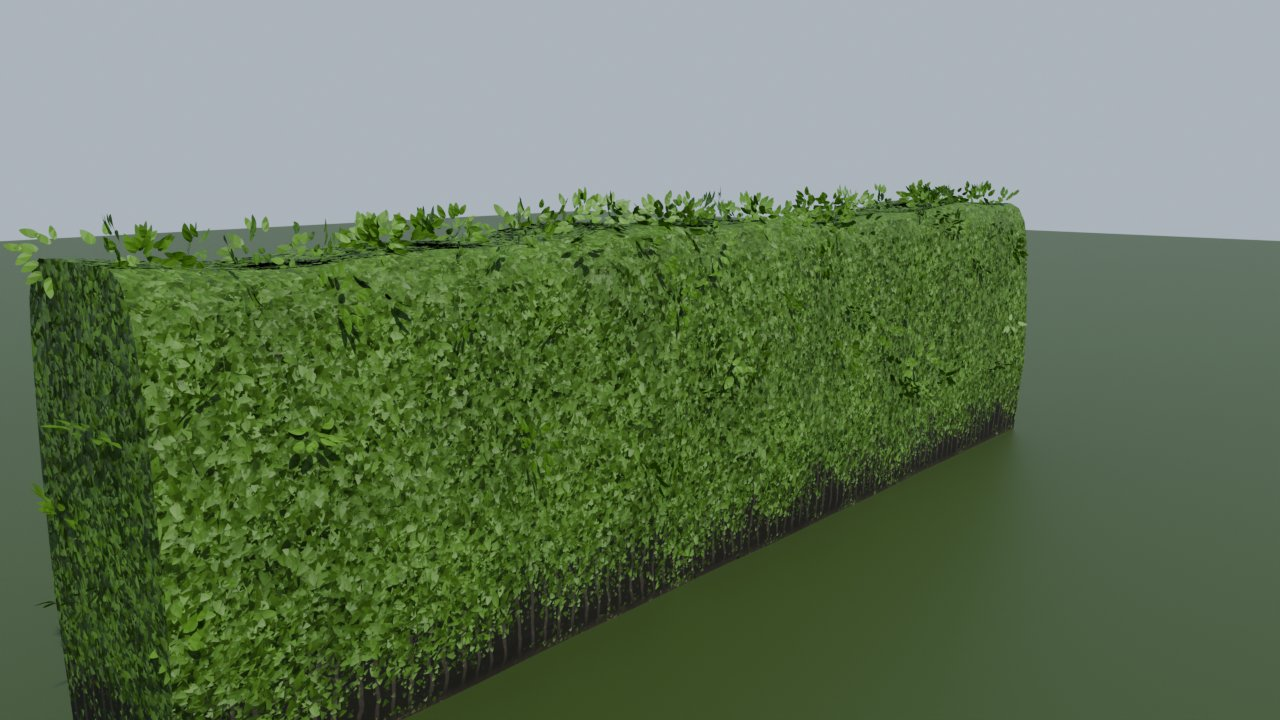
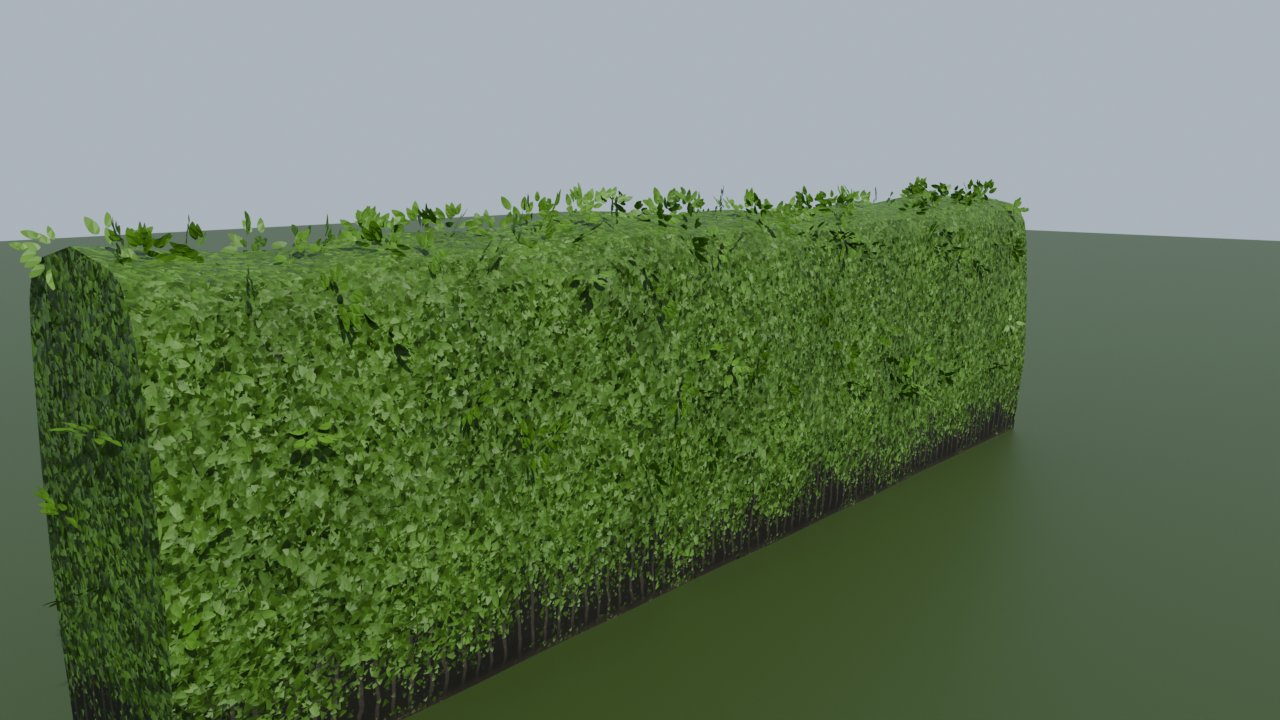
hedges round 1c: domed leafy top, edge breakup on the rounded corners only, even shorter sprigs
- the top domed 3 % (LOD0 + LOD1), no see-through lid at low angles (grazing breakup on hv.w = rounded corners)
- sprigs: corners x1.8, top x1.3, 0.5-0.8 x card size, lying closer; previews re-rendered
- gate: LOD1 40 tris, worst view 86.4k (old 82.2k, +5 %), all pass

diff --git a/viewer/gardens/gardenHedge.js b/viewer/gardens/gardenHedge.js
@@ -67,13 +67,14 @@ export const LUMP_FADE = [28, 38];
 export const HEDGE_TEX = ["textures/hedges/hedge_leaf_a.webp", "textures/hedges/hedge_leaf_n.webp"];
 
 // ------------------------------------------------------------------------------------------------ geometry
-/** the clipped section in unit space (z across -0.5..0.5, y 0..1): [z, y, nz, ny, vy, vz, round] (vy / vz = the arc
- *  length's vertical / horizontal parts: v in metres = vy x H + vz x W; round = a point of the rounded top corners) */
+/** the clipped section in unit space (z across -0.5..0.5, y 0..1.03): [z, y, nz, ny, vy, vz, round] (vy / vz = the arc
+ *  length's vertical / horizontal parts: v in metres = vy x H + vz x W; round = 1 a point of the rounded top corners,
+ *  2 the top's middle) */
 function section(lod) {
   const B = HEDGE_BOTTOM, r = 0.16, wt = 0.47;
   const half = [];                                   // the -z side, bottom up, then the corner round to the top
   if (lod === 2) {
-    half.push([-0.46, B, 0], [-0.49, 0.84, 0], [-0.33, 1.0, 0]);
+    half.push([-0.46, B, 0], [-0.49, 0.84, 1], [-0.33, 1.0, 1]);
   } else {
     half.push([-0.46, B, 0]);
     if (lod === 0) half.push([-0.48, 0.06, 0]);
@@ -83,7 +84,8 @@ function section(lod) {
     for (let k = 0; k <= nc; k++) { const a = Math.PI - (k / nc) * (Math.PI / 2); half.push([-wt + r + Math.cos(a) * r, 1 - r + Math.sin(a) * r, 1]); }
   }
   let P = [...half];
-  if (lod === 0) P.push([0, 1.0, 1]);
+  // (round 1c: the top slightly DOMED, 3 % of the height at its middle: a clipped top is never a flat lid)
+  if (lod < 2) P.push([0, 1.03, 2]);
   for (let k = half.length - 1; k >= 0; k--) P.push([-half[k][0], half[k][1], half[k][2]]);
   // normals: the outward normal of a piece a -> b is (-dy, dz); a point averages its two pieces
   const segN = (a, b) => { const dz = b[0] - a[0], dy = b[1] - a[1], l = Math.hypot(dz, dy) || 1; return [-dy / l, dz / l]; };
@@ -106,13 +108,13 @@ function bodyGeometry(lod) {
   const P = [], N = [], V = [], D = [], I = [];
   const segN = (a, b) => { const dz = b[0] - a[0], dy = b[1] - a[1], l = Math.hypot(dz, dy) || 1; return [-dy / l, dz / l]; };
   for (let k = 0; k < n - 1; k++) {
-    const [nz, ny] = segN(S[k], S[k + 1]), base = P.length / 3;
+    const [nz, ny] = segN(S[k], S[k + 1]), base = P.length / 3, edge = S[k][6] === 1 && S[k + 1][6] === 1 ? 1 : 0;
     for (let r = 0; r <= rings; r++) {
       const x = r / rings;
       for (const q of [S[k], S[k + 1]]) {
         P.push(x, q[1], q[0]);
         N.push(0, ny, nz);
-        V.push(x, q[4], q[5]); D.push(0, q[3], q[2]);
+        V.push(x, q[4], q[5], edge); D.push(0, q[3], q[2]);
       }
     }
     for (let r = 0; r < rings; r++) {
@@ -122,14 +124,14 @@ function bodyGeometry(lod) {
   }
   for (const [x, s] of [[0, -1], [1, 1]]) {
     const c = P.length / 3;
-    P.push(x, 0.45, 0); N.push(s, 0, 0); V.push(x, 0, 0); D.push(0, 0, 0);
-    for (const [z, y, dz, dy] of S) { P.push(x, y, z); N.push(s, 0, 0); V.push(x, 0, 0); D.push(0, dy, dz); }
+    P.push(x, 0.45, 0); N.push(s, 0, 0); V.push(x, 0, 0, 0); D.push(0, 0, 0);
+    for (const [z, y, dz, dy] of S) { P.push(x, y, z); N.push(s, 0, 0); V.push(x, 0, 0, 0); D.push(0, dy, dz); }
     for (let k = 0; k < n - 1; k++) { if (s < 0) I.push(c, c + 2 + k, c + 1 + k); else I.push(c, c + 1 + k, c + 2 + k); }
   }
   const g = new THREE.BufferGeometry();
   g.setAttribute("position", new THREE.Float32BufferAttribute(P, 3));
   g.setAttribute("normal", new THREE.Float32BufferAttribute(N, 3));
-  g.setAttribute("hv", new THREE.Float32BufferAttribute(V, 3));
+  g.setAttribute("hv", new THREE.Float32BufferAttribute(V, 4));   // (w: 1 on the rounded top corners: the silhouette)
   g.setAttribute("ld", new THREE.Float32BufferAttribute(D, 3));
   g.setIndex(I);
   g.computeBoundingBox(); g.computeBoundingSphere(); g.userData.shared = true;
@@ -138,14 +140,14 @@ function bodyGeometry(lod) {
 
 /** the card module: HEDGE_CARDS quads; per vertex: position / normal = the card's spot on the unit body's surface and
  *  its normal (the SAME for its 4 corners: the instancing takes them to the world), corner = the quad corner
- *  (-0.5..0.5), crnd = 4 randoms. Stratified along the module; on the silhouette: the top corners x 3, the top x 1.6,
+ *  (-0.5..0.5), crnd = 4 randoms. Stratified along the module; on the silhouette: the top corners x 1.8, the top x 1.3,
  *  the sides above 25 % of the height x 1 (none on the foot: the stems show there) */
 function cardGeometry() {
   const S = section(1).filter((p) => p[1] > 0.25);
   const segs = [];
   for (let k = 0; k + 1 < S.length; k++) {
     const a = S[k], b = S[k + 1], L = Math.hypot(b[0] - a[0], b[1] - a[1]);
-    const w = a[6] && b[6] ? 3 : Math.abs(a[3]) > 0.9 && Math.abs(b[3]) > 0.9 ? 1.6 : 1;
+    const w = a[6] === 1 && b[6] === 1 ? 1.8 : a[6] && b[6] ? 1.3 : 1;   // (1c: even, not a fringe on the corner)
     segs.push({ a, b, w: L * w });
   }
   const tot = segs.reduce((s, q) => s + q.w, 0);
@@ -247,7 +249,7 @@ export function hedgeMaterials() {
   const [texA, texN] = hedgeTextures();
   const body = [0, 1, 2].map((lod) => {
     const m = new THREE.MeshStandardNodeMaterial({ metalness: 0 });
-    const I = inst(), hv = attribute("hv", "vec3"), pRaw = attribute("position", "vec3"), nRaw = attribute("normal", "vec3");
+    const I = inst(), hv = attribute("hv", "vec4"), pRaw = attribute("position", "vec3"), nRaw = attribute("normal", "vec3");
     const aux = attribute("iAux", "vec4");
     const sideW = vec3(aux.x, 0, aux.y), alongW = vec3(aux.y, 0, aux.x.negate());
     // run metres: u along the run (continuous over the module joints), v round the section; the end caps planar
@@ -314,7 +316,8 @@ export function hedgeMaterials() {
     // round seen from the side, a run's end edges), the baked gaps open through (the texture's own mips keep it at a
     // distance; the cards add the sprigs near). Not in the shadow (the body casts whole) nor at the foot.
     const vDir = normalize(cameraPosition.sub(positionWorld));
-    const graze = smoothstep(0.72, 0.95, float(1).sub(abs(dot(Nw, vDir)))).mul(footK);
+    // (1c: on the rounded top corners only, hv.w: a flat top or side seen at a low angle must not open into see-through)
+    const graze = smoothstep(0.72, 0.95, float(1).sub(abs(dot(Nw, vDir)))).mul(varying(hv.w, "v_hE"));
     m.maskNode = keep(lod).and(occl.greaterThan(graze.mul(0.42)));
     m.maskShadowNode = keep(lod);
     m.name = `gardens-hedge-lod${lod}`;
@@ -336,13 +339,13 @@ export function hedgeMaterials() {
   const ax = t1.mul(ca).add(t2.mul(sa)), ay = t2.mul(ca).sub(t1.mul(sa));
   // (round 1b: a CLIPPED hedge's sprigs lie close along the surface, 55-83 degrees off its normal, and stick out 3-8 cm,
   // not upright tufts)
-  const tilt = cr.y.mul(0.5).add(0.95);
+  const tilt = cr.y.mul(0.45).add(1.05);
   const cardN = normalize(cn.mul(cos(tilt)).add(ay.mul(sin(tilt))));
   const cardY = normalize(cross(cardN, ax));
   // (an end-face card: only on a run's own end; iAux.z = 1 its start, + 2 its end)
   const cend = attribute("cend", "float"), ends = attribute("iAux", "vec4").z;
   const onEnd = select(cend.lessThan(0.5), float(1), select(cend.lessThan(1.5), ends.mod(2), floor(ends.div(2).add(0.01))));
-  const size = sp.x.mul(cr.z.mul(0.4).add(0.6)).mul(grow).mul(onEnd);
+  const size = sp.x.mul(cr.z.mul(0.3).add(0.5)).mul(grow).mul(onEnd);
   // (the body's lean at the card's height + a small flutter of its own)
   const [flick, flickP] = windPrev(() => leanAt(anchor, fH).add(vec3(1, 0.3, 1).mul(sin(wind.uTime.mul(5.0).add(cr.w.mul(40))).mul(windAt(anchor.xz).z.mul(0.015).add(0.003)))));
   setMotionDelta(card, flickP.sub(flick));   // --- instmotion

diff --git a/tools/blender/hedgePreview.py b/tools/blender/hedgePreview.py
@@ -25,7 +25,7 @@ B, r, wt = -0.12, 0.16, 0.47
 half = [(-0.46, B), (-0.48, 0.06), (-0.5, 0.32), (-0.49, 0.6)]
 for k in range(4):
     a = math.pi - (k / 3) * (math.pi / 2); half.append((-wt + r + math.cos(a) * r, 1 - r + math.sin(a) * r))
-sec = half + [(0, 1.0)] + [(-z, y) for (z, y) in reversed(half)]
+sec = half + [(0, 1.03)] + [(-z, y) for (z, y) in reversed(half)]
 vs = [0.0]
 for k in range(1, len(sec)):
     vs.append(vs[-1] + abs(sec[k][1] - sec[k - 1][1]) * H + abs(sec[k][0] - sec[k - 1][0]) * W)
@@ -113,7 +113,8 @@ nmix = MIXC(leafy, (0.5, 0.5, 1.0), Nn)
 nm = N("ShaderNodeNormalMap"); nt.links.new(nmix, nm.inputs["Color"]); nt.links.new(nm.outputs[0], bs.inputs["Normal"])
 bs.inputs["Roughness"].default_value = 0.6
 lw = N("ShaderNodeLayerWeight"); lw.inputs["Blend"].default_value = 0.5
-graze = M("MULTIPLY", SS(lw.outputs["Facing"], 0.72, 0.95), footK)
+corner = M("MULTIPLY", M("MULTIPLY", SS(gz.outputs[2], 0.1, 0.25), SS(gz.outputs[2], 0.97, 0.9)), SS(sp.outputs[2], 0.8 * H, 0.9 * H))
+graze = M("MULTIPLY", SS(lw.outputs["Facing"], 0.72, 0.95), corner)
 keep = M("GREATER_THAN", occl, M("MULTIPLY", graze, 0.42))
 tr = N("ShaderNodeBsdfTransparent"); ms = N("ShaderNodeMixShader")
 nt.links.new(keep, ms.inputs[0]); nt.links.new(tr.outputs[0], ms.inputs[1]); nt.links.new(bs.outputs[0], ms.inputs[2])
@@ -132,7 +133,7 @@ def spray(pos, nrm, size):
     upv = Vector((1, 0, 0)) if abs(nrm.z) > 0.9 else Vector((0, 0, 1))
     t1 = upv.cross(nrm).normalized(); t2 = nrm.cross(t1)
     ang = rng.random() * 6.283; ax = t1 * math.cos(ang) + t2 * math.sin(ang); ay = t2 * math.cos(ang) - t1 * math.sin(ang)
-    tilt = 0.95 + 0.5 * rng.random()
+    tilt = 1.05 + 0.45 * rng.random()
     cn = (nrm * math.cos(tilt) + ay * math.sin(tilt)).normalized()
     centre = pos + nrm * size * 0.12 + cn * 0.0
     bx = cn.cross(ax).normalized()
@@ -149,7 +150,7 @@ S1 = [(z, y) for (z, y) in sec if y > 0.25]
 for k in range(len(S1) - 1):
     (z0, y0), (z1, y1) = S1[k], S1[k + 1]
     L = math.hypot(z1 - z0, y1 - y0); round_ = y0 > 0.8 and y1 > 0.8 and (abs(z0) > 0.3 or abs(z1) > 0.3)
-    w = 3 if round_ else 1.6 if (y0 > 0.99 and y1 > 0.99) else 1
+    w = 1.8 if round_ else 1.3 if (y0 > 0.99 and y1 > 0.99) else 1
     segs.append((z0, y0, z1, y1, L * w))
 tot = sum(s[4] for s in segs)
 for mod in range(5):
@@ -162,10 +163,10 @@ for mod in range(5):
         nrm = Vector((0, (s[3] - s[1]) * H, -(s[2] - s[0]) * W)).normalized()
         if Vector((0, z, y - 0.5)).dot(nrm) < 0: nrm = -nrm
         x = mod + (c + rng.random()) / 48
-        spray(Vector((x, z * W, y * H + lump(x, y))), nrm, 0.24 * (0.6 + 0.4 * rng.random()))
+        spray(Vector((x, z * W, y * H + lump(x, y))), nrm, 0.24 * (0.5 + 0.3 * rng.random()))
 for end in (0, 1):
     for c in range(3):
-        spray(Vector((end * Lr, (rng.random() - 0.5) * 0.8 * W, (0.35 + 0.6 * rng.random()) * H)), Vector((1 if end else -1, 0, 0)), 0.24 * (0.6 + 0.4 * rng.random()))
+        spray(Vector((end * Lr, (rng.random() - 0.5) * 0.8 * W, (0.35 + 0.6 * rng.random()) * H)), Vector((1 if end else -1, 0, 0)), 0.24 * (0.5 + 0.3 * rng.random()))
 cm = bpy.data.meshes.new("cards"); cm.from_pydata(V, [], F); cm.update()
 cm.attributes.new("val", "FLOAT", "FACE"); cm.attributes["val"].data.foreach_set("value", C)
 cards = bpy.data.objects.new("cards", cm); scn.collection.objects.link(cards)

diff --git a/docs/FOLIAGE.md b/docs/FOLIAGE.md
@@ -430,6 +430,12 @@ the mips of near). The cards shrink 14-24 m (a morph) and are gone before their 
 - preview with the cards (as real leaf sprays), the foot and the grazing breakup: `tools/blender/hedgePreview.py` ->
   `docs/hedges/preview_{close,near,far}.jpg`.
 
-**Budget** (`tools/audit/hedgeGate.mjs`, merge gate row `hedges`): triangles a module 128 / 36 / 20 + 108 card
-(old 160 / 54 / 20 + 128); worst 25 m-grid view over all tiles 84.9k hedge triangles (old there 82.2k, worst old view
-84.0k): +3 %. Draws 4 (old 4). Fragment: 4 taps of the baked pair + 1 noise tap (old: 5 noise taps + a bump).
+**Round 1c** (coordinator: "the top reads as a flat dark lid with a row of sprouts"): the top domed 3 % of the height
+(LOD0 and LOD1 share the dome; LOD2 flat at 108 m+), the grazing breakup only on the rounded top corners (hv.w: a flat
+top or side seen at a low angle went see-through = the dark lid), the sprigs spread evenly (corners x 1.8, top x 1.3)
+and shorter (0.5-0.8 x the species card, 60-86 degrees off the normal). Snow caps (cityCaps.js) still take LOD2's flat
+top: up to 4 cm under the dome's middle (check in the browser with snow).
+
+**Budget** (`tools/audit/hedgeGate.mjs`, merge gate row `hedges`): triangles a module 128 / 40 / 20 + 108 card
+(old 160 / 54 / 20 + 128); worst 25 m-grid view over all tiles 86.4k hedge triangles (old there 82.2k, worst old view
+84.0k): +5 %. Draws 4 (old 4). Fragment: 4 taps of the baked pair + 1 noise tap (old: 5 noise taps + a bump).
